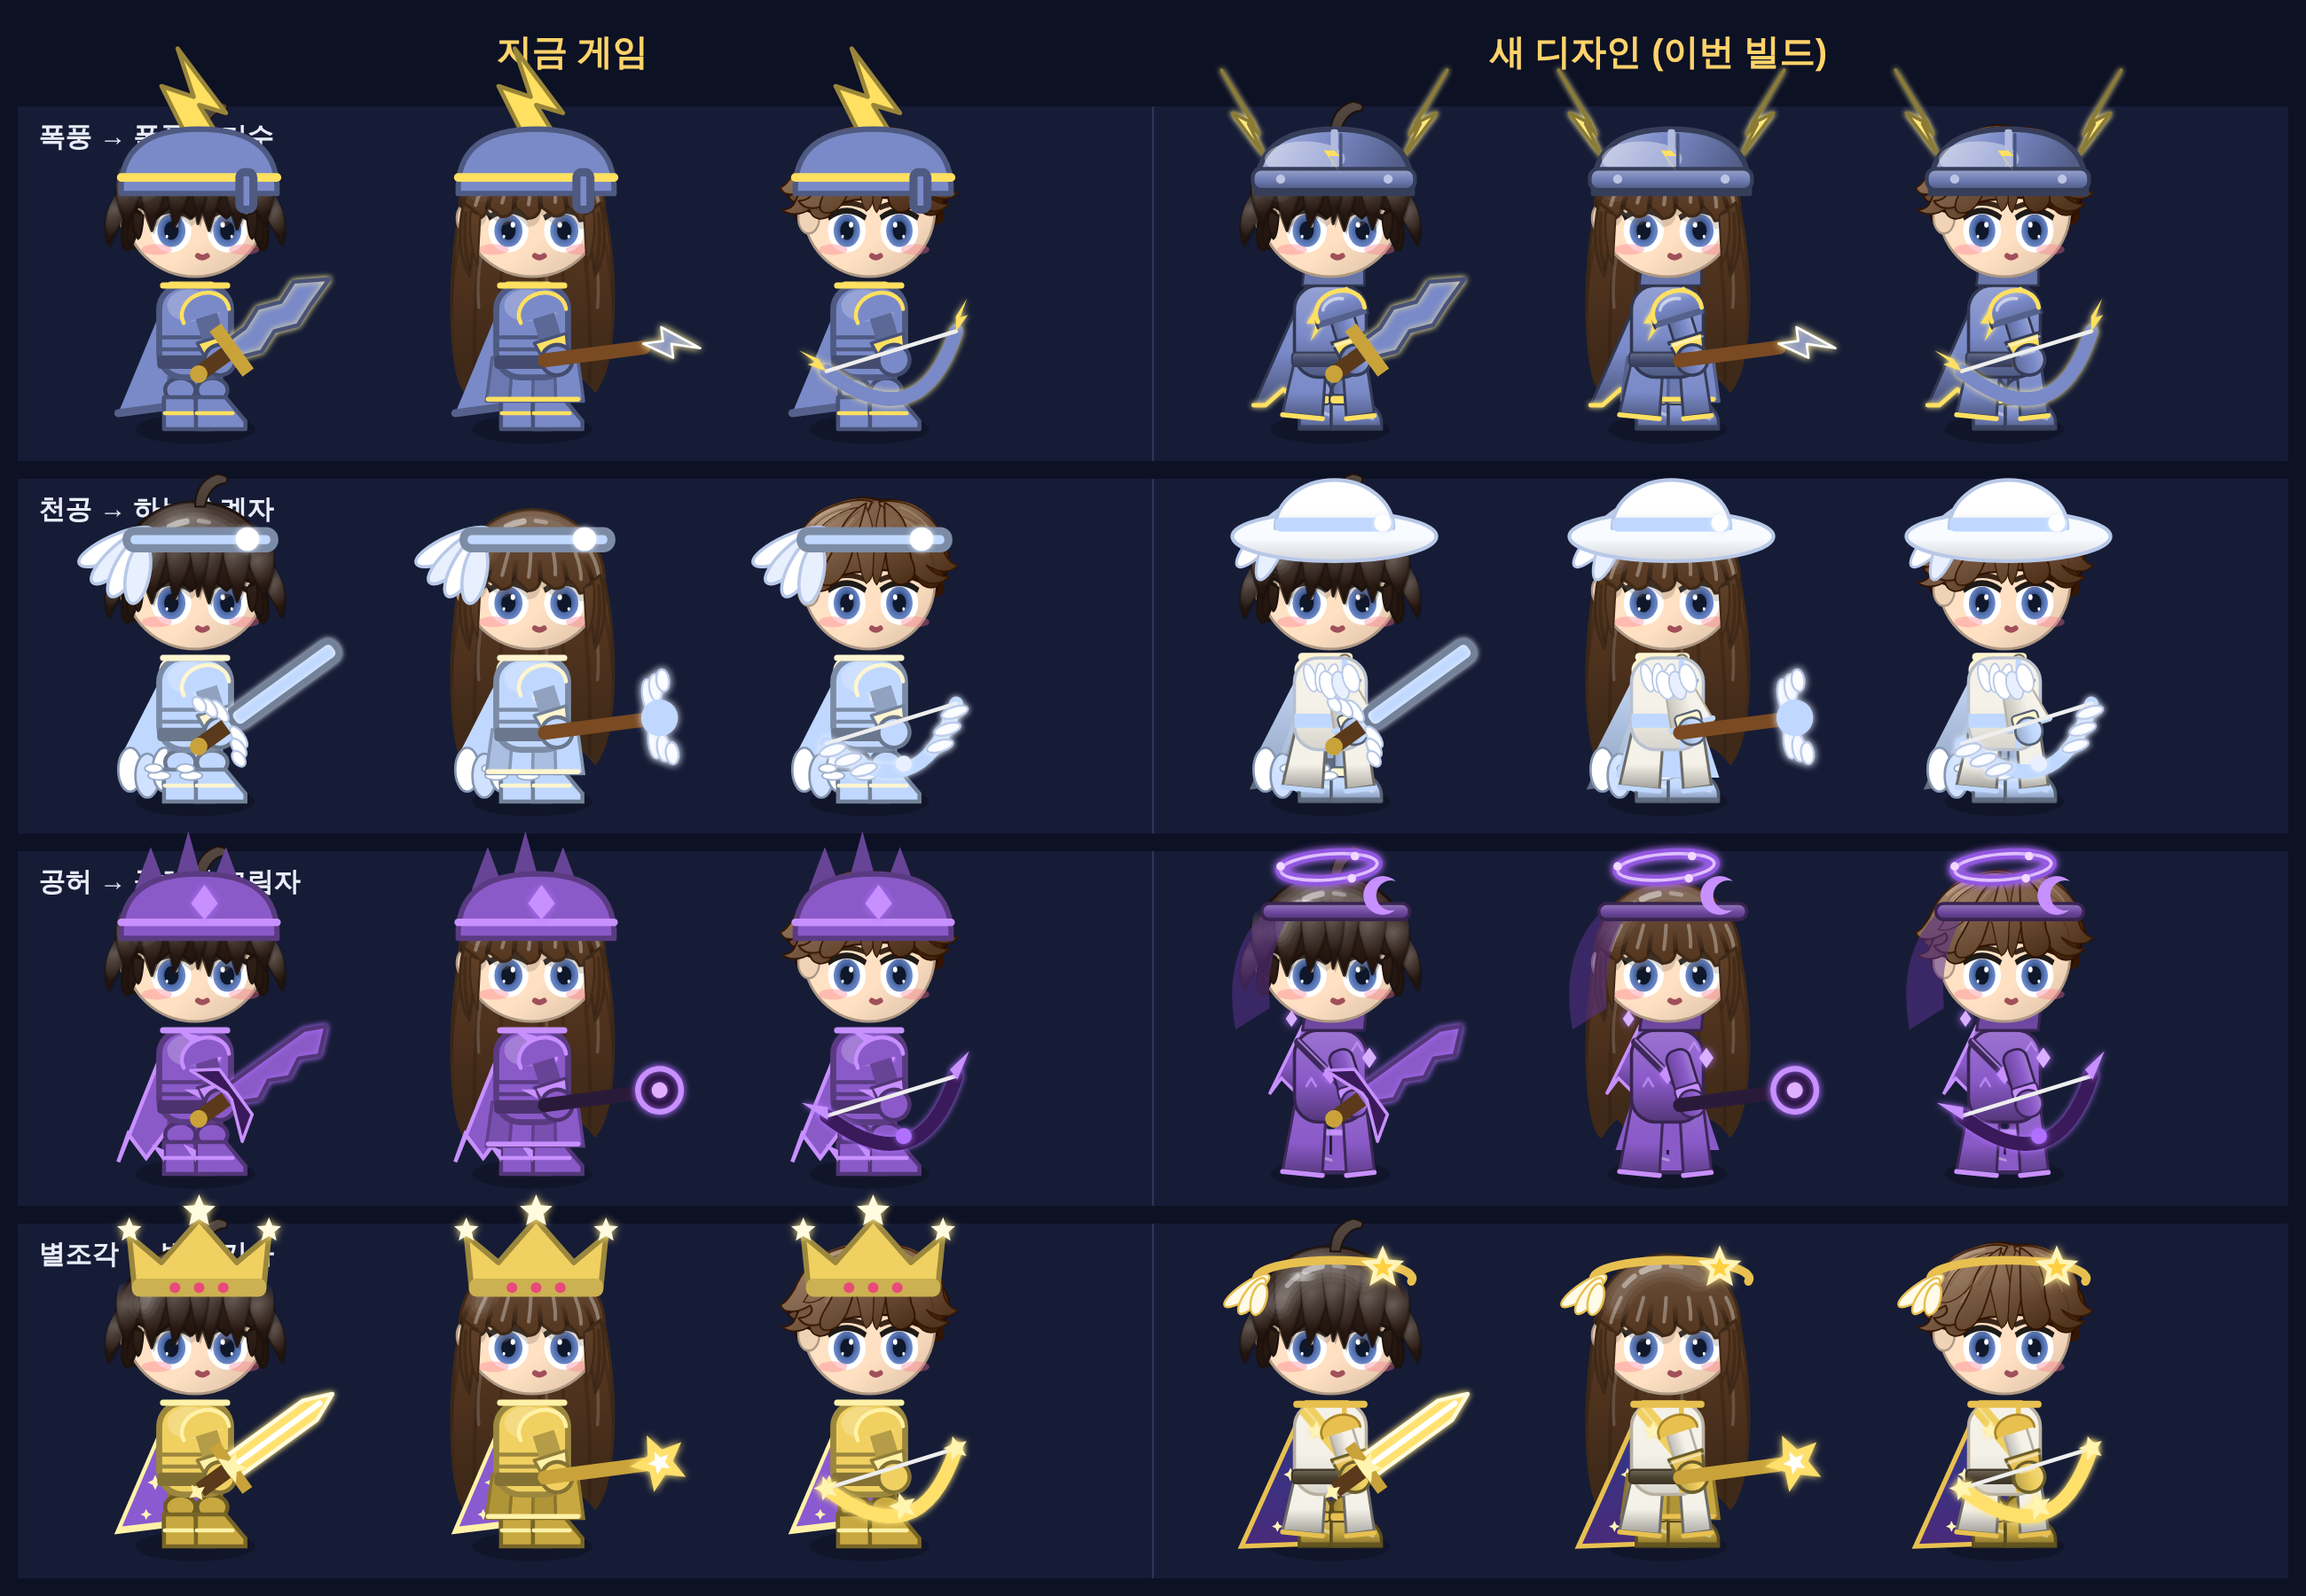
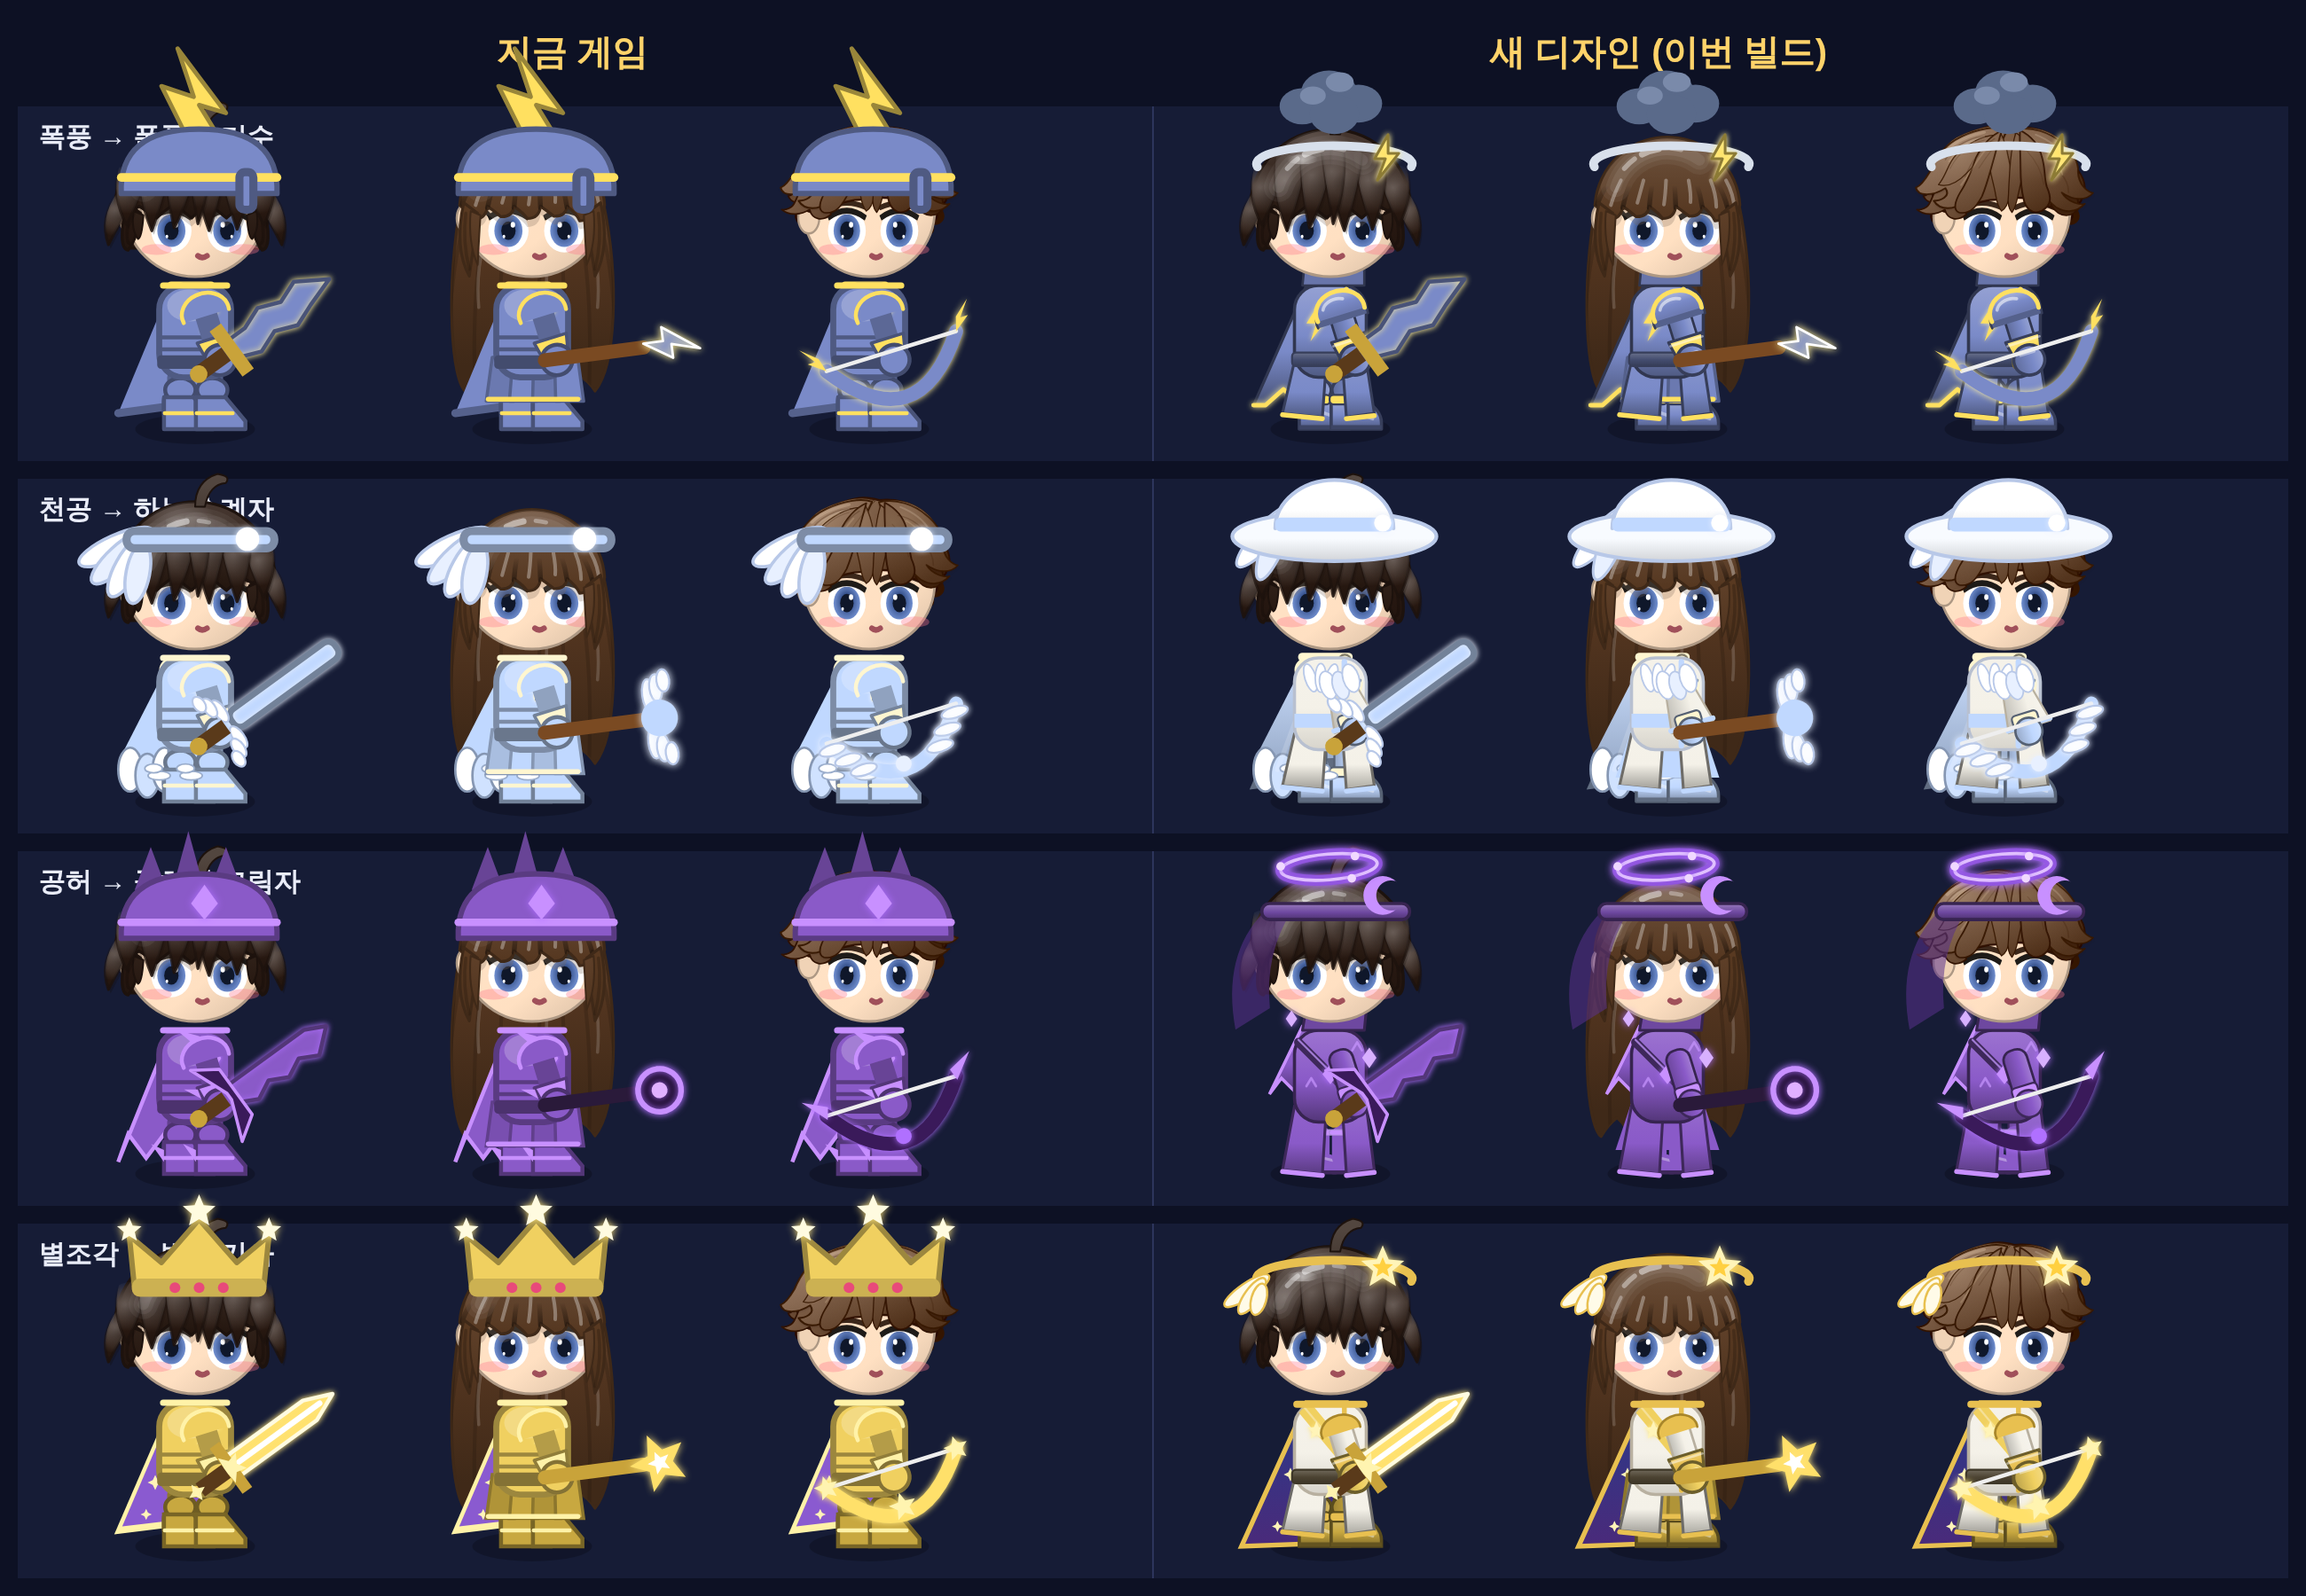
빌드 6 계획서 확정: 폭풍 모자 안 가 · 13세트 최종 시안
Claude-Session: https://claude.ai/code/session_012Uzgs6nJ8nnZGaogUABhrm

Changed region(s): [[0.81, 0.0311, 0.9346, 0.1244], [0.6542, 0.0311, 0.7788, 0.1244], [0.5296, 0.0311, 0.6231, 0.1244]]

diff --git a/hannyomi/docs/drafts/design/gear_B/mkv3.py b/hannyomi/docs/drafts/design/gear_B/mkv3.py
@@ -29,7 +29,7 @@ s=s.replace(old,"""    red: {}, steel: {}, wind: {}, crystal: {}, shadow: {},
     desert:   { hat: 'desertwrap', top: 'nomad', bottom: 'baggy', shoes: 'sandal', gloves: 'wrap', cape: 'long', trim: '#b0503a' },
     sahrin:   { hat: 'sunhelm', top: 'guardvest', bottom: 'kilt', shoes: 'sandal', gloves: 'bracer', trim: '#3a7ad0' },
     pharaoh:  { hat: 'sunmitre', top: 'priestrobe', bottom: 'kilt', shoes: 'sandal', gloves: 'bracer', cape: 'long', trim: '#2a50b0' },
-    storm:    { hat: 'stormcrest', top: 'stormcoat', bottom: 'greave', shoes: 'sabaton', gloves: 'gauntlet', cape: 'stormcape', trim: '#ffe060', glow: '#fff09a' },
+    storm:    { hat: 'storm_a', top: 'stormcoat', bottom: 'greave', shoes: 'sabaton', gloves: 'gauntlet', cape: 'stormcape', trim: '#ffe060', glow: '#fff09a' },
     sky:      { hat: 'skyhat', top: 'skyrobe', bottom: 'pants', shoes: 'winged', gloves: 'glove', cape: 'feather', trim: '#fff6d0', glow: '#e8f0ff' },
     starheir: { hat: 'starcirclet', top: 'knightcoat', bottom: 'greave', shoes: 'sabaton', gloves: 'gauntlet', cape: 'starflow', trim: '#e8c050', glow: '#ffe680' },
   });""")

diff --git a/hannyomi/docs/BUILD_MOBILE_PLAN.md b/hannyomi/docs/BUILD_MOBILE_PLAN.md
@@ -1422,3 +1422,9 @@ README 한 줄: "2.1.8 — 튜토리얼: 금색 발판에서 내려온 뒤, 2단
 ### 정할 것
 1. 아이템 · 세트 이름도 새 디자인 이름으로 바꿀지 (예: "미스릴 투구" → "은빛 기사 투구"). 추천: 바꾸지 않음 (이름은 그대로, 모양만)
 2. 무기도 새 디자인으로 바꿀지. 추천: 이번엔 그대로 (다음 빌드에서 따로)
+
+### 결정 · 확정 (2026-11-13)
+- 폭풍의 기수 모자: **안 가** (은빛 서클릿 + 이마 번개 보석 + 머리 위 작은 먹구름, 가끔 번쩍) — 시안 `gear_B/storm_hat_3.png`
+- 13세트 최종 시안: `gear_B/gear_B_all1~3.png`
+- 이름 · 무기: 사용자 답이 없으면 추천대로 (아이템 이름 그대로 · 무기 그대로)
+- 구현 순서: ① `outfit.js` 에 세련 A 바탕 함수 + 새 모양 함수 + `S` 13세트 → ② 시안 그림과 같은지 비교 그림 · 동작 3가지 → ③ 휴대폰 프레임 측정 (캐릭터 여러 명) → ④ 옷장 페이지 → ⑤ 완주 4명 → 커밋 · 시험판 · EXE 글
